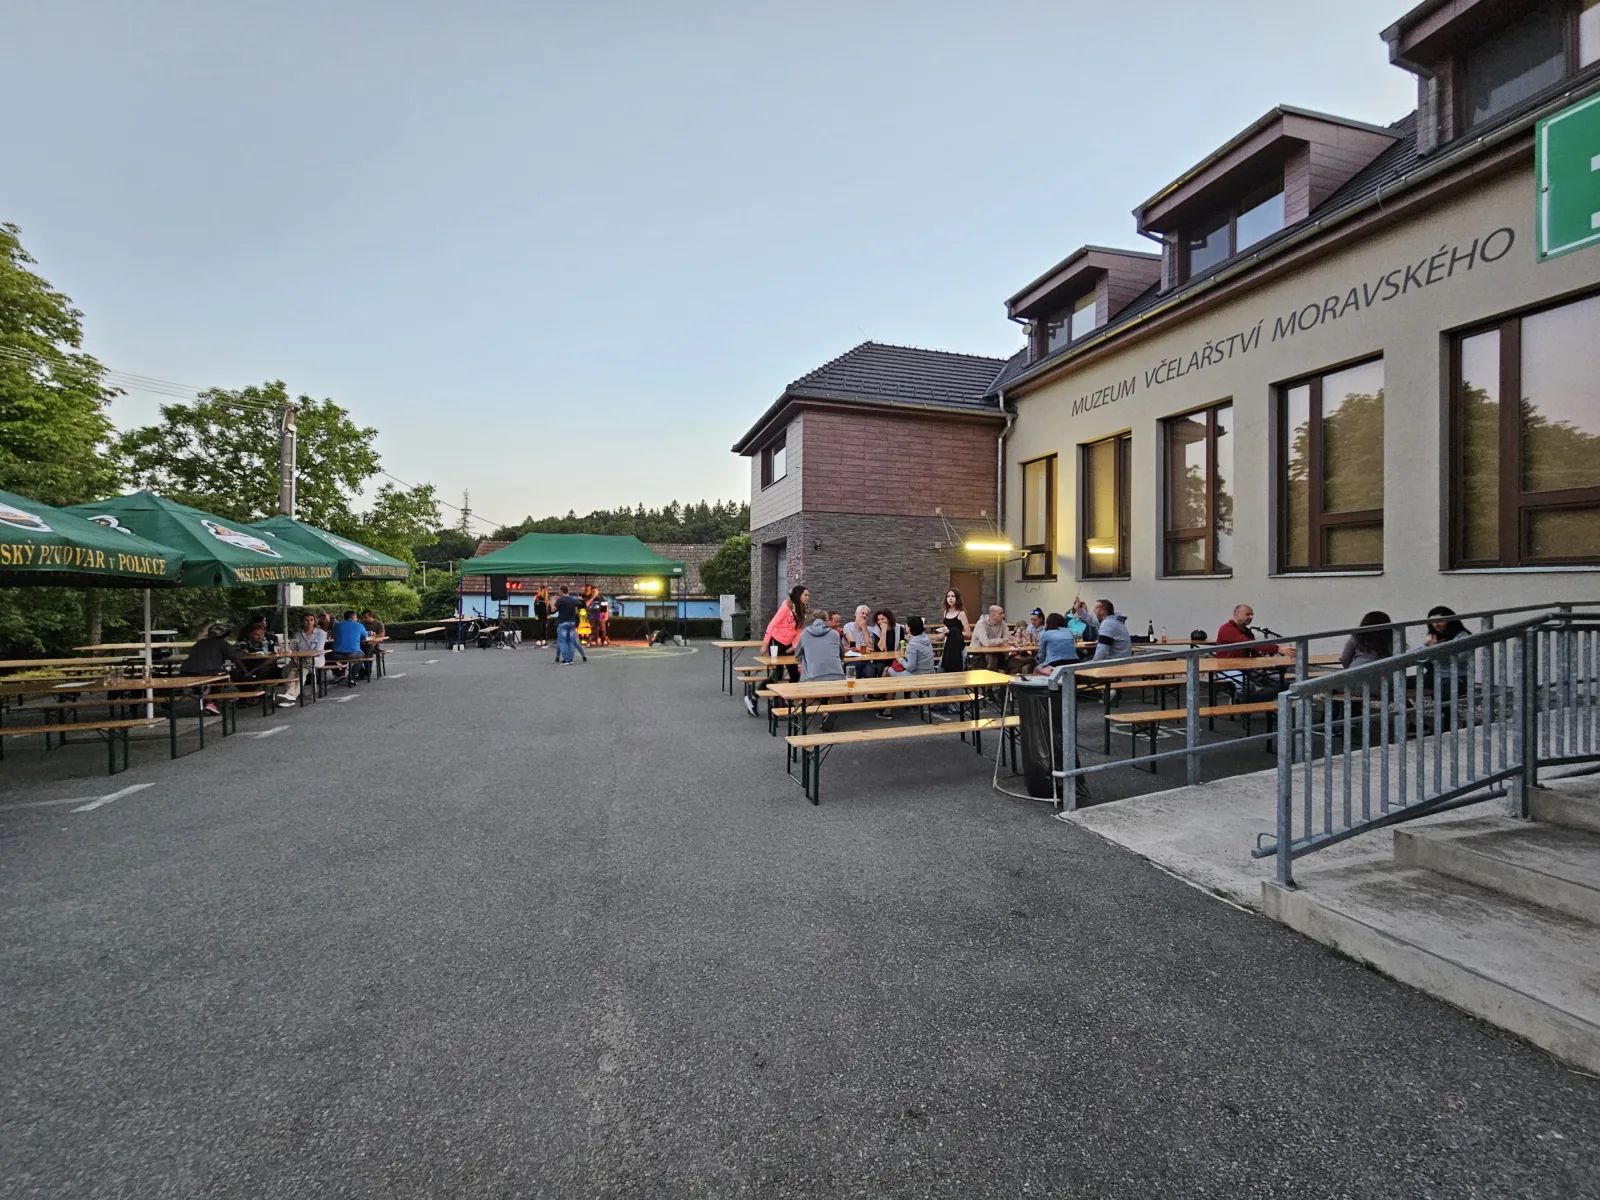
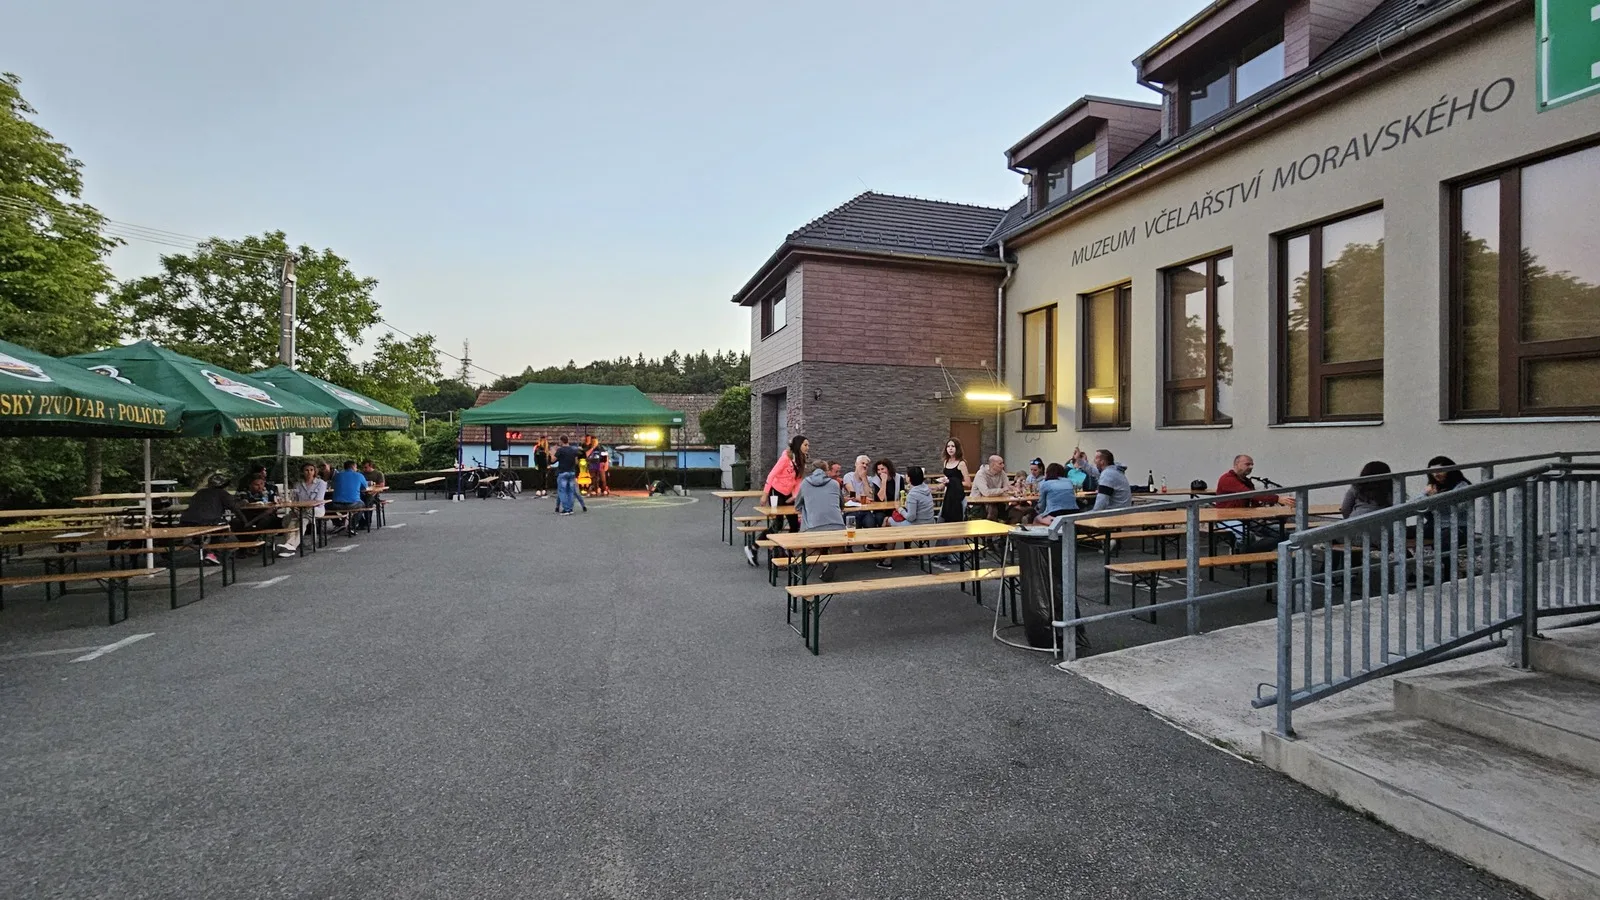
Oprava pomeru stran fotky a cypress testu
- Fotka sjezd_rodaku_2026.webp prekropena na 16:9 (1600x900)
- Cypress test events.cy.js updatovan na novy nazev eventu

diff --git a/cypress/e2e/events.cy.js b/cypress/e2e/events.cy.js
@@ -12,7 +12,7 @@ describe('events', () => {
         cy.contains('3. 1.').parent().should('contain.text', 'Valná hromada SDH Veselice')
         cy.contains('14. 2.').parent().should('contain.text', 'Ostatky')
         cy.contains('16. 5.').parent().should('contain.text', 'Lesempolem')
-        cy.contains('13. - 14. 6.').parent().should('contain.text', 'Pouť ve Veselici')
+        cy.contains('13. - 14. 6.').parent().should('contain.text', 'Pouť a IV. sjezd rodáků')
     })
 
     it('events page links work', () => {
